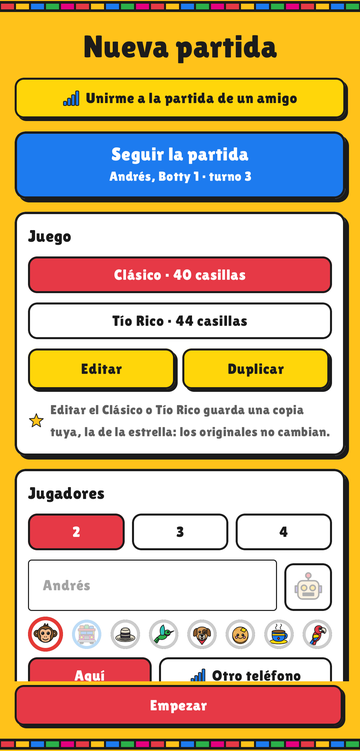
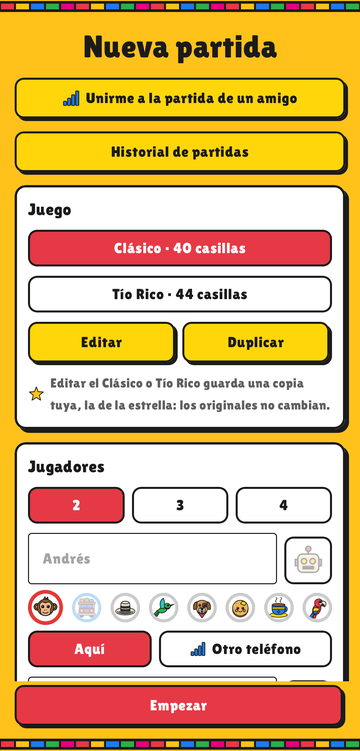
FI.2: README al día (ícono del mono, historial, libres en blanco, mono-0.3.apk), capturas nuevas de menú, partida e historial; versión 0.3 (versionCode 3)

diff --git a/README.md b/README.md
@@ -1,13 +1,15 @@
 # Mono
 
+<img src="arte/svg/logo_mono_solo.svg" alt="Ícono de Mono" width="96" align="right">
+
 Juego de propiedades para Android al estilo del **Tío Rico** y del **Monopoly**, hecho para jugar con amigos en un mismo teléfono o en dos teléfonos por la red Wi-Fi. Se compra, se construye, se hipoteca y se cobra alquiler hasta que solo queda uno; y casi todo se puede cambiar: los nombres y precios de las casillas, el tamaño del tablero y las reglas.
 
-| | | |
-|:-:|:-:|:-:|
-| ![Menú](docs/capturas/menu.png) | ![Partida](docs/capturas/partida.png) | ![Carta](docs/capturas/carta.png) |
-| Nueva partida | La hoja de una propiedad | Una casilla de carta |
-| ![Lo que pasó](docs/capturas/lo_que_paso.png) | ![Editor de casillas](docs/capturas/editor.png) | ![Editor de reglas](docs/capturas/reglas.png) |
-| Lo que pasó en el turno | Editar las casillas | Editar las reglas |
+| | | | |
+|:-:|:-:|:-:|:-:|
+| ![Menú](docs/capturas/menu.png) | ![Partida](docs/capturas/partida.png) | ![Carta](docs/capturas/carta.png) | ![Historial](docs/capturas/historial.png) |
+| Nueva partida | Las propiedades de un jugador | Una casilla de carta | Historial de partidas |
+| ![Lo que pasó](docs/capturas/lo_que_paso.png) | ![Editor de casillas](docs/capturas/editor.png) | ![Editor de reglas](docs/capturas/reglas.png) | |
+| Lo que pasó en el turno | Editar las casillas | Editar las reglas | |
 
 ## Qué tiene
 
@@ -15,6 +17,8 @@ Juego de propiedades para Android al estilo del **Tío Rico** y del **Monopoly**
 - **De 2 a 4 jugadores** en el mismo teléfono, cada uno con su personaje. Cualquier puesto lo puede jugar la máquina («Botty»).
 - **Partida en red:** un puesto puede ser «Otro teléfono»; el amigo, en la misma red Wi-Fi, entra con «Unirme a la partida de un amigo». Si la conexión se corta, el invitado vuelve a entrar y la partida sigue donde iba.
 - **La partida se guarda sola** y se retoma con «Seguir la partida».
+- **Las propiedades de cada uno:** al tocar el ícono de un jugador se ven sus casillas en su color y las que todavía tiene el Banco en blanco.
+- **Historial de partidas:** cada partida con su fecha, tablero, turnos y tiempo jugado; el ganador, a color.
 - **Editor:** cambiar el nombre, el precio, el grupo y los alquileres de cada casilla; añadir o quitar casillas; y 28 reglas configurables (abajo).
 - **Arte propio** dibujado por código (`arte/`), sin imágenes de terceros.
 
@@ -45,7 +49,7 @@ Las reglas salen de los reglamentos impresos de los dos juegos: cada una está t
 
 Para jugar sin compilar nada, en un teléfono con **Android 8.0 o más nuevo**:
 
-1. Desde el teléfono, abrir la [última versión](https://github.com/TheShimmyXD/Mono/releases/latest) y descargar `mono-0.1.apk` (en *Assets*).
+1. Desde el teléfono, abrir la [última versión](https://github.com/TheShimmyXD/Mono/releases/latest) y descargar `mono-0.3.apk` (en *Assets*).
 2. Abrir el archivo descargado. La primera vez Android pide permiso para *instalar apps desconocidas* desde el navegador (o el gestor de archivos): activarlo y volver.
 3. Pulsar *Instalar*. Si Play Protect avisa que no reconoce la app, elegir *Instalar de todas formas* (puede pasar con las apps que no vienen de Play Store).
 
@@ -84,8 +88,8 @@ engine/      Motor de reglas en Kotlin puro (sin Android): tablero, dados, compr
 app/         La app de Android con Jetpack Compose: menú, partida, editor y juego en red.
 terminal/    El jugador de consola del PC (mono-pc), con el mismo motor.
 pc/          Script de Python para medir la conexión con el teléfono.
-arte/        arte.py y arte/dibujos/: dibujan cada casilla, ícono y personaje y generan
-             los SVG y los recursos de Android. La letra Lilita One y su licencia, en arte/letra/.
+arte/        arte.py y arte/dibujos/: dibujan cada casilla, ícono, personaje y el ícono de la app
+             y generan los SVG y los recursos de Android. La letra Lilita One y su licencia, en arte/letra/.
 docs/        Capturas de este README.
 REGLAS.md    Transcripción de los reglamentos, regla por regla.
 PLAN_MONO.md Plan del proyecto y hoja de ruta por fases.
